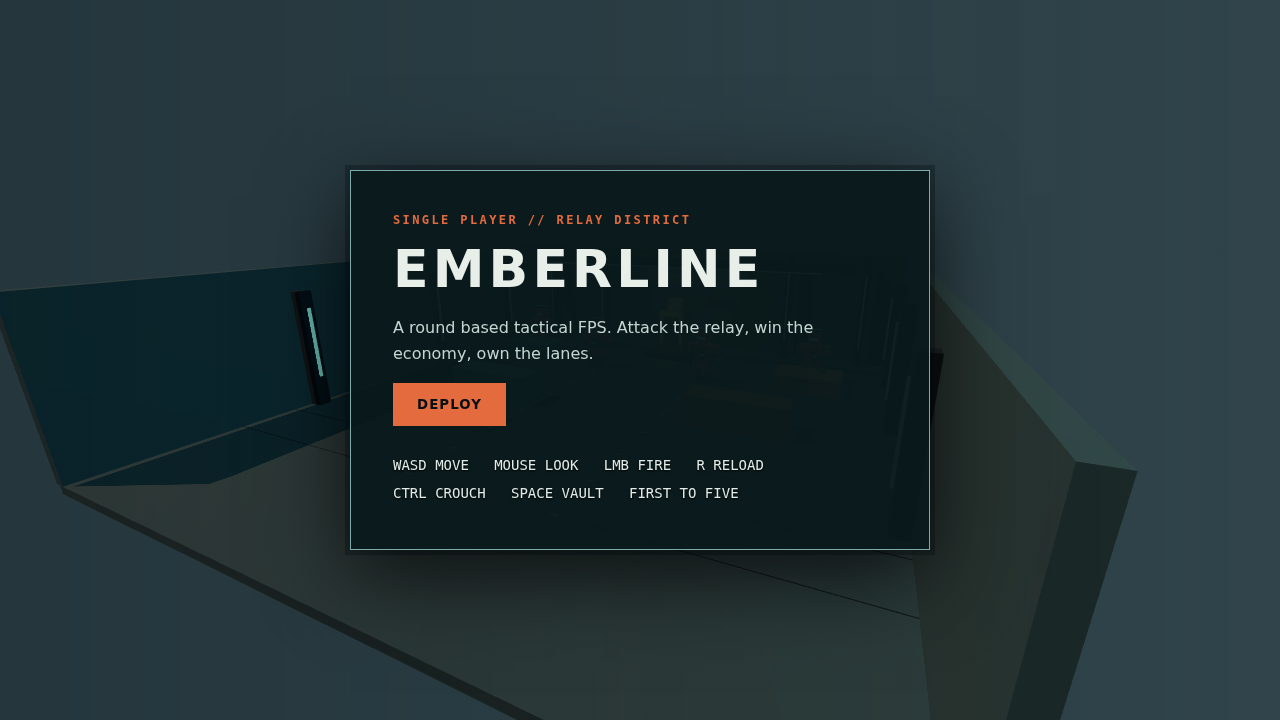
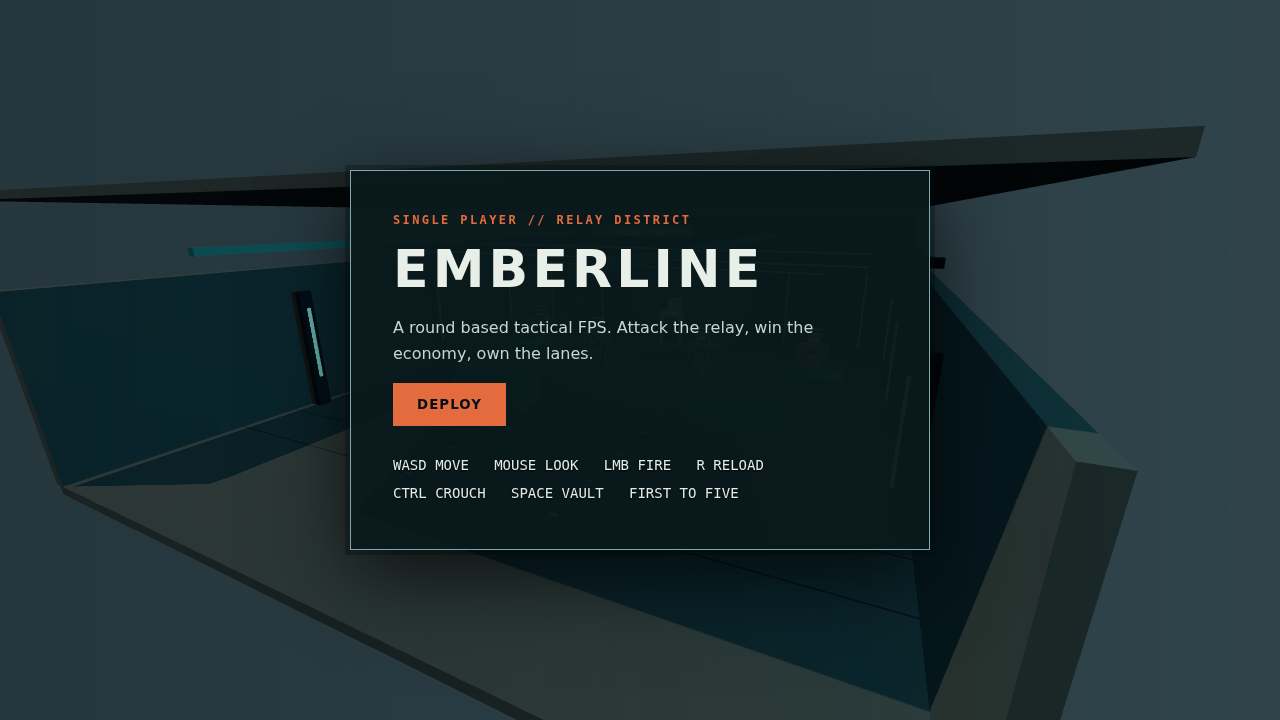
Polish EMBERLINE combat cues and final shot composition
Restore frozen-shot rendering after capture resize, clarify rivals and HUD combat cues, and reframe the weapon and arena. Refresh all four deterministic submission captures.

diff --git a/game/src/main.js b/game/src/main.js
@@ -22,19 +22,20 @@ function aim(){
   camera.position.set(10,8,18);camera.lookAt(0,1,-4);
   return;
  }
- camera.position.set(player.state.position.x,player.state.position.y+player.state.eye,player.state.position.z);camera.rotation.set(player.state.pitch,player.state.yaw,0,'YXZ');
+ camera.position.set(player.state.position.x,player.state.position.y+player.state.eye,player.state.position.z);camera.rotation.set(player.state.pitch,player.state.yaw,shot==='play'?.018:0,'YXZ');
 }
-function shoot(){if(!weapon.ready())return;weapon.fire();audio.shot();camera.getWorldDirection(ray.ray.direction);ray.set(camera.position,ray.ray.direction);const hit=ray.intersectObjects(bots.list.filter(b=>b.alive).flatMap(b=>[b.body,b.head]),false)[0];if(hit){const b=hit.object.userData.bot;b.hp-=hit.object===b.head?100:34;hud.hit();if(b.hp<=0){b.alive=false;b.group.visible=false;feed=`<b>EMBER</b> eliminated <span>RIVAL ${bots.list.indexOf(b)+1}</span>`;audio.round();if(bots.list.every(x=>!x.alive))endRound(0);}}player.recoil();}
+function killEvent(rival){return `<b>EMBER</b> <em>[vanta]</em> <span>RIVAL ${rival}</span>`;}
+function shoot(){if(!weapon.ready())return;weapon.fire();audio.shot();camera.getWorldDirection(ray.ray.direction);ray.set(camera.position,ray.ray.direction);const hit=ray.intersectObjects(bots.list.filter(b=>b.alive).flatMap(b=>[b.body,b.head]),false)[0];if(hit){const b=hit.object.userData.bot;b.hp-=hit.object===b.head?100:34;hud.hit();if(b.hp<=0){b.alive=false;b.group.visible=false;feed=killEvent(bots.list.indexOf(b)+1);audio.round();if(bots.list.every(x=>!x.alive))endRound(0);}}player.recoil();}
 function endRound(team){rounds.win(team);running=false;input.state.firing=false;hud.overlay(rounds.state.phase,'ROUND WIN',team===0?'Relay secured. Your squad owns the lane.':'The opposing squad controls the relay.');}
 function buyShop(){if(rounds.state.phase==='buy'&&rounds.buy(2700)){weapon.state.capacity=30;weapon.state.mag=30;weapon.state.reserve=90;feed='<b>SHOP</b> VANTA rifle equipped';}}
 function start(){audio.boot();running=true;manualFrame=false;rounds.start();bots.reset();weapon.reset();player.state.hp=100;player.state.position.set(0,0,8);hud.hide();input.lock();}
 hud.onPlay(()=>{if(rounds.state.phase==='win'){rounds.next();hud.overlay('buy','BUY PHASE','Spend credits before the next push. Press 1 for rifle or 2 for armor.');return;}if(rounds.state.phase==='buy')start();else start();});
 function setupShot(name){if(name==='start'){rounds.state.phase='menu';rounds.state.time=12;hud.overlay('start','EMBERLINE','A round based tactical FPS. Attack the relay, win the economy, own the lanes.');}else if(name==='buy'){rounds.state.phase='buy';rounds.state.time=12;hud.overlay('buy','BUY PHASE // RELAY DISTRICT','Spend credits, then push through the relay lanes.  [1] VANTA RIFLE $2700   [2] ARMOUR $650   [G] GRENADE $300');buyShop();}else{rounds.start();running=true;player.state.position.set(0,0,7);player.state.yaw=0;bots.list.forEach((b,i)=>{b.hp=100;b.alive=true;b.group.visible=true;b.group.position.set([-8,-3,3,8][i],0,[-7,-5,-5,-7][i]);});if(name==='play'){
- player.state.position.set(0,0,6);player.state.pitch=.018;rounds.state.time=74;weapon.state.mag=18;
+ player.state.position.set(.85,0,6);player.state.yaw=.125;player.state.pitch=-.025;rounds.state.time=74;weapon.state.mag=18;
  bots.list.forEach((b,i)=>{b.group.position.set([0,1.9,-4.4,6.8][i],0,[-1,-3.2,-5.2,-7][i]);b.group.rotation.y=0;});
  bots.list[0].hp=32;bots.list[0].health.scale.x=.32;
- feed='<b>EMBER</b> ▸ <span>RIVAL 4</span> &nbsp; / &nbsp; VANTA';bots.list[3].alive=false;bots.list[3].group.visible=false;hud.hide();document.getElementById('hit').classList.add('on');
- aim();camera.updateMatrixWorld(true);const muzzle=weapon.flash.getWorldPosition(new THREE.Vector3()),impact=new THREE.Vector3(0,1.73,-.75);
+ feed=killEvent(4);bots.list[3].alive=false;bots.list[3].group.visible=false;hud.hide();document.getElementById('hit').classList.add('on');
+ aim();camera.updateMatrixWorld(true);const muzzle=weapon.flash.getWorldPosition(new THREE.Vector3()),impact=new THREE.Vector3(0,1.48,-.75);
  const tracer=new THREE.Mesh(new THREE.CylinderGeometry(.012,.012,muzzle.distanceTo(impact),8),new THREE.MeshBasicMaterial({color:0xffdb86}));tracer.position.copy(muzzle).add(impact).multiplyScalar(.5);tracer.quaternion.setFromUnitVectors(new THREE.Vector3(0,1,0),impact.clone().sub(muzzle).normalize());scene.add(tracer);
  const sparkMaterial=new THREE.LineBasicMaterial({color:0xffedb4});for(let i=0;i<9;i++){const a=i*2.399;const end=impact.clone().add(new THREE.Vector3(Math.cos(a)*.3,Math.sin(a)*.3,.15));scene.add(new THREE.Line(new THREE.BufferGeometry().setFromPoints([impact,end]),sparkMaterial));}
 }if(name==='roundwin'){bots.list.slice(1).forEach(b=>{b.alive=false;b.group.visible=false;});feed='<b>EMBER</b> eliminated RIVAL 2  •  <b>ROUND WIN</b>';rounds.win(0);hud.overlay('win','ROUND WIN','Relay secured. Your squad owns the lane.');}}aim();hud.set({hp:player.state.hp,armor:player.state.armor,mag:weapon.state.mag,reserve:weapon.state.reserve,money:rounds.state.money,time:rounds.state.time,round:rounds.state.round,score:rounds.state.score,feed});renderOnce();}
@@ -48,5 +49,5 @@ function renderScene(){
 function renderOnce(){aim();if(shot==='play')weapon.flash.visible=true;renderScene();manualFrame=Boolean(shot);window.__shotReady=true;}
 function update(dt){if(!running)return;rounds.tick(dt);const look=input.look();player.look(look.x,look.y);const s=input.state;if(s.keys.has('KeyR'))weapon.reload();if(s.keys.has('Digit1'))buyShop();if(s.keys.has('Digit2')&&rounds.state.phase==='buy'&&rounds.buy(650))player.state.armor=100;if(s.firing)shoot();player.step(dt,s.keys);weapon.step(dt);bots.step(dt,player.state,b=>{if(random()<.25){player.state.hp=Math.max(0,player.state.hp-7);feed='<span>CONTACT</span> incoming fire';}});if(rounds.state.time<=0&&rounds.state.phase==='live')endRound(0);if(player.state.hp<=0)endRound(1);aim();hud.set({hp:player.state.hp,armor:player.state.armor,mag:weapon.state.mag,reserve:weapon.state.reserve,money:rounds.state.money,time:rounds.state.time,round:rounds.state.round,score:rounds.state.score,feed});}
 function frame(now){requestAnimationFrame(frame);if(!manualFrame){update(Math.min(.05,(now-last)/1000));last=now;renderScene();}}
-addEventListener('resize',()=>{camera.aspect=innerWidth/innerHeight;camera.updateProjectionMatrix();renderer.setSize(innerWidth,innerHeight);});
+addEventListener('resize',()=>{camera.aspect=innerWidth/innerHeight;camera.updateProjectionMatrix();renderer.setSize(innerWidth,innerHeight);if(manualFrame)renderOnce();});
 if(shot)setupShot(shot);else hud.overlay('start','EMBERLINE','A round based tactical FPS. Attack the relay, win the economy, own the lanes.');aim();frame(performance.now());

diff --git a/game/src/world.js b/game/src/world.js
@@ -2,25 +2,29 @@ import * as THREE from 'three';
 import {PALETTE} from './palette.js';
 export function createWorld(scene){
  const group=new THREE.Group();scene.add(group);const colliders=[],shootables=[];
- const M={floor:new THREE.MeshStandardMaterial({color:0x233b40,roughness:.85}),wall:new THREE.MeshStandardMaterial({color:0x28454b,roughness:.8}),teal:new THREE.MeshStandardMaterial({color:PALETTE.teal,roughness:.65}),orange:new THREE.MeshStandardMaterial({color:PALETTE.orange,roughness:.65}),gold:new THREE.MeshStandardMaterial({color:0xb39256,metalness:.5,roughness:.45}),dark:new THREE.MeshStandardMaterial({color:0x101f29,metalness:.5}),light:new THREE.MeshBasicMaterial({color:0x86eee3}),glow:new THREE.MeshBasicMaterial({color:0xffc371})};
+ const M={floor:new THREE.MeshStandardMaterial({color:0x233b40,roughness:.85}),wall:new THREE.MeshStandardMaterial({color:0x28454b,roughness:.8}),teal:new THREE.MeshStandardMaterial({color:PALETTE.teal,roughness:.65}),orange:new THREE.MeshStandardMaterial({color:PALETTE.orange,roughness:.65}),gold:new THREE.MeshStandardMaterial({color:0xb39256,metalness:.5,roughness:.45}),dark:new THREE.MeshStandardMaterial({color:0x101f29,metalness:.5}),light:new THREE.MeshBasicMaterial({color:0x86eee3}),glow:new THREE.MeshBasicMaterial({color:0x88dedb})};
  function box(w,h,d,x,y,z,m,solid=true){const o=new THREE.Mesh(new THREE.BoxGeometry(w,h,d),M[m]);o.position.set(x,y,z);o.castShadow=o.receiveShadow=true;group.add(o);if(solid)colliders.push(new THREE.Box3().setFromObject(o));shootables.push(o);return o;}
- box(24,.3,26,0,-.15,0,'floor',false);box(24,6,.4,0,3,-12,'wall');box(.4,6,26,-12,3,0,'wall');box(.4,6,26,12,3,0,'wall');
+ box(24,.3,26,0,-.15,0,'floor',false);box(24,10,.4,0,5,-12,'wall');box(.4,6,26,-12,3,0,'wall');box(.4,6,26,12,3,0,'wall');
+ // Overhead gantries give the upper frame depth and lit structure.
+ for(const z of [-10,-5,1]){box(24,.3,.45,0,6.7,z,'dark',false);box(20,.045,.08,0,6.52,z+.25,'light',false);}
+ for(const x of [-8,5])box(.28,.25,22,x,7,-1,'teal',false);
+ box(24,.2,26,0,8.5,0,'wall',false);
  // Side cover leaves an uninterrupted central engagement lane.
- box(4,1.3,1.3,-5,.65,1,'teal');box(4,1.3,1.3,6,.65,0,'orange');box(1.4,.9,1.5,-3.8,.45,4,'gold');
- box(3,.8,2,-8,.4,-6,'teal');box(3,.8,2,8,.4,-6,'orange');
+ box(4,1.3,1.3,-5,.65,1,'teal');box(4,1.3,1.3,6,.65,0,'teal');box(1.4,.9,1.5,-3.8,.45,4,'gold');
+ box(3,.8,2,-8,.4,-6,'teal');box(3,.8,2,8,.4,-6,'teal');
  for(const x of [-10,-6,6,10]){box(.45,6,.8,x,3,-11.6,'dark');box(.08,4,.06,x,3,-11.12,'light',false);}
  for(const x of [-11.6,11.6])for(const z of [-8,-2,5]){box(.7,5,.5,x,2.5,z,'dark');box(.08,3,.12,x+(x<0?.4:-.4),2.8,z,'light',false);}
  box(19,.45,.7,0,5.6,-8,'dark');box(16,.055,.1,0,5.32,-7.7,'light',false);
- for(const x of [-2.8,2.8]){box(.045,.015,20,x,.015,-1,'gold',false);for(let z=-10;z<10;z+=2)box(.3,.016,.07,x,.02,z,'light',false);}
+ for(const x of [-2.8,2.8]){box(.045,.015,20,x,.015,-1,'teal',false);for(let z=-10;z<10;z+=2)box(.3,.016,.07,x,.02,z,'light',false);}
  for(let z=-10;z<10;z+=2)box(24,.012,.025,0,.01,z,'dark',false);
  // Relay tower, elevated and warm against the cool industrial shell.
  box(3,.3,2.5,0,.15,-9,'dark');box(1.5,2.4,1.3,0,1.5,-9,'gold');box(.8,1.5,1.42,0,1.7,-9,'dark');
  for(const x of [-.57,.57])box(.1,1.8,1.45,x,1.7,-9,'glow',false);
- box(.65,.65,.65,0,3.1,-9,'glow',false);box(3.8,.15,.2,0,4.3,-11.3,'gold',false);
- const canvas=document.createElement('canvas');canvas.width=1024;canvas.height=256;const ctx=canvas.getContext('2d');ctx.fillStyle='#10232c';ctx.fillRect(0,0,1024,256);ctx.fillStyle='#a6c9c7';ctx.font='bold 92px monospace';ctx.textAlign='center';ctx.fillText('RELAY / 07',512,110);ctx.fillStyle='#f3bd70';ctx.font='32px monospace';ctx.fillText('EMBERLINE  •  TRANSIT SECTOR',512,185);const sign=new THREE.Mesh(new THREE.PlaneGeometry(7,1.75),new THREE.MeshBasicMaterial({map:new THREE.CanvasTexture(canvas)}));sign.position.set(0,4.7,-11.75);group.add(sign);
+ box(.65,.65,.65,0,3.1,-9,'glow',false);box(3.8,.10,.2,-3.5,6,-11.3,'light',false);
+ const canvas=document.createElement('canvas');canvas.width=1024;canvas.height=256;const ctx=canvas.getContext('2d');ctx.fillStyle='#10232c';ctx.fillRect(0,0,1024,256);ctx.fillStyle='#a6c9c7';ctx.font='bold 92px monospace';ctx.textAlign='center';ctx.fillText('RELAY / 07',512,110);ctx.fillStyle='#64c9cc';ctx.font='32px monospace';ctx.fillText('EMBERLINE  •  TRANSIT SECTOR',512,185);const sign=new THREE.Mesh(new THREE.PlaneGeometry(7,1.75),new THREE.MeshBasicMaterial({map:new THREE.CanvasTexture(canvas)}));sign.position.set(-3.5,6.6,-11.75);group.add(sign);
  const hemi=new THREE.HemisphereLight(0x9cdce9,0x283439,1.4);hemi.layers.enable(1);scene.add(hemi);
  const sun=new THREE.DirectionalLight(0xffd6aa,3.4);sun.layers.enable(1);sun.position.set(-8,12,4);sun.castShadow=true;sun.shadow.mapSize.set(2048,2048);Object.assign(sun.shadow.camera,{left:-18,right:18,top:18,bottom:-18});sun.shadow.bias=-.001;scene.add(sun);
  const fill=new THREE.DirectionalLight(0x64d8e9,1.2);fill.position.set(8,5,-6);fill.layers.enable(1);scene.add(fill);
- const relayLight=new THREE.PointLight(0xff9a3e,35,9,2);relayLight.position.set(0,3,-8);scene.add(relayLight);
+ const relayLight=new THREE.PointLight(0x72dedb,35,9,2);relayLight.position.set(0,3,-8);scene.add(relayLight);
  return{colliders,shootables,group};
 }

diff --git a/game/src/weapon.js b/game/src/weapon.js
@@ -8,10 +8,10 @@ export function createWeapon(camera){
  part(.15,.15,.22,-.09,-.12,-.24,glove);part(.12,.18,.12,.04,-.18,.11,glove);part(.15,.07,.16,.02,-.29,.15,warm);
  for(let z=-.27;z<0;z+=.065)part(.19,.025,.025,0,.145,z,steel);
  // The cone base meets the barrel tip; its point faces forward.
- const flash=new THREE.Mesh(new THREE.ConeGeometry(.11,.32,8),new THREE.MeshBasicMaterial({color:0xffd77c}));flash.rotation.x=-Math.PI/2;flash.position.set(0,.025,-.765);g.add(flash);flash.visible=false;
- g.scale.setScalar(.62);g.position.set(.38,-.3,-.65);camera.add(g);
+ const flash=new THREE.Mesh(new THREE.ConeGeometry(.11,.32,8),new THREE.MeshBasicMaterial({color:0xffd77c}));flash.rotation.x=-Math.PI/2;flash.position.set(0,.025,-.765);g.add(flash);const core=new THREE.Mesh(new THREE.ConeGeometry(.055,.38,8),new THREE.MeshBasicMaterial({color:0xfff8de}));core.position.y=.025;flash.add(core);flash.visible=false;
+ g.scale.setScalar(.82);g.position.set(.47,-.34,-1.05);camera.add(g);
  // Render the view model after clearing world depth, so nearby cover cannot cut it up.
  g.traverse(o=>o.layers.set(1));
  const s={mag:25,reserve:75,cool:0,reload:0,kick:0,spread:0,capacity:25};
- return {state:s,flash,step(dt){s.cool=Math.max(0,s.cool-dt);if(s.reload>0){s.reload=Math.max(0,s.reload-dt);if(!s.reload){const n=Math.min(s.capacity-s.mag,s.reserve);s.mag+=n;s.reserve-=n;}}s.kick=Math.max(0,s.kick-dt*.3);s.spread=Math.max(0,s.spread-dt*.025);g.position.z=-.65+s.kick;g.rotation.x=-s.kick;flash.visible=s.cool>.08;},ready(){return s.cool===0&&s.reload===0&&s.mag>0;},fire(){s.mag--;s.cool=.14;s.kick=.065;s.spread=Math.min(.035,s.spread+.006);flash.visible=true;},reload(){if(s.mag<s.capacity&&s.reserve&&s.reload===0){s.reload=1.7;return true;}return false;},reset(){s.mag=s.capacity;s.reserve=s.capacity*3;s.cool=s.reload=s.spread=0;}};
+ return {state:s,flash,step(dt){s.cool=Math.max(0,s.cool-dt);if(s.reload>0){s.reload=Math.max(0,s.reload-dt);if(!s.reload){const n=Math.min(s.capacity-s.mag,s.reserve);s.mag+=n;s.reserve-=n;}}s.kick=Math.max(0,s.kick-dt*.3);s.spread=Math.max(0,s.spread-dt*.025);g.position.z=-1.05+s.kick;g.rotation.x=-s.kick;flash.visible=s.cool>.08;},ready(){return s.cool===0&&s.reload===0&&s.mag>0;},fire(){s.mag--;s.cool=.14;s.kick=.065;s.spread=Math.min(.035,s.spread+.006);flash.visible=true;},reload(){if(s.mag<s.capacity&&s.reserve&&s.reload===0){s.reload=1.7;return true;}return false;},reset(){s.mag=s.capacity;s.reserve=s.capacity*3;s.cool=s.reload=s.spread=0;}};
 }

diff --git a/game/index.html b/game/index.html
@@ -12,4 +12,12 @@
 .panel{background:#09191bf5;border:1px solid #7daba8;box-shadow:0 24px 80px #000b,0 0 0 5px #07101655}
 .panel p{color:#c4d6d1}
 .keys{color:#e1ebe7;text-shadow:0 1px 2px #000}
+/* Combat cues stay legible over both the arena and the view model. */
+.cross{z-index:2;width:38px;height:38px;filter:drop-shadow(0 1px 2px #000)}
+.cross i{background:#d6ffff;box-shadow:0 0 0 1px #071016}
+.cross i:nth-child(1),.cross i:nth-child(2){left:18px;width:2px;height:11px}
+.cross i:nth-child(3),.cross i:nth-child(4){top:18px;height:2px;width:11px}
+#hit{width:14px;height:14px;border-width:2px}
+.feed:not(:empty){padding:10px 14px;background:#071016ed;border-left:3px solid var(--teal);font:bold 14px monospace;letter-spacing:.04em}
+.feed b{color:#e8eee8}.feed em{font-style:normal;color:#a7c4c7;margin:0 10px}.feed span{color:#8ae9ed}
 </style></head><body><div id="game"></div><div id="hud"><div class="top"><span id="round">ROUND 1 · FIRST TO FIVE</span><b id="score">0 — 0</b><span id="timer">TIME 12</span></div><div class="feed" id="feed"></div><div class="cross"><i></i><i></i><i></i><i></i></div><div id="hit"></div><div class="bottom"><div class="health"><b id="hp">100</b> <i>HP</i> <span id="armor">75</span> ARM<br><span id="money">$3,200</span></div><div class="ammo"><span id="mag">25</span><small> / <span id="reserve">75</span><br>VANTA RIFLE</small></div></div></div><div class="overlay" id="overlay"><section class="panel"><div class="eyebrow">SINGLE PLAYER // RELAY DISTRICT</div><h1 id="overlay-title">EMBERLINE</h1><p id="overlay-copy">A round based tactical FPS. Attack the relay, win the economy, own the lanes.</p><button id="play">DEPLOY</button><div class="keys">WASD MOVE &nbsp; MOUSE LOOK &nbsp; LMB FIRE &nbsp; R RELOAD<br>CTRL CROUCH &nbsp; SPACE VAULT &nbsp; FIRST TO FIVE</div></section></div><script type="importmap">{"imports":{"three":"./vendor/three/three.module.min.js"}}</script><script type="module" src="./src/main.js"></script></body></html>

diff --git a/game/src/bots.js b/game/src/bots.js
@@ -1,9 +1,9 @@
 import * as THREE from 'three';
 export function createBots(scene,nav,shootables,random){
- const list=[],armor=new THREE.MeshStandardMaterial({color:0xe84058,emissive:0x6e102c,emissiveIntensity:.35,metalness:.35,roughness:.45}),dark=new THREE.MeshStandardMaterial({color:0x162439}),rimMat=new THREE.MeshBasicMaterial({color:0xffb8cc,side:THREE.BackSide}),visor=new THREE.MeshBasicMaterial({color:0x9dffff});
+ const list=[],armor=new THREE.MeshStandardMaterial({color:0xcf5870,emissive:0x702b45,emissiveIntensity:.65,metalness:.35,roughness:.45}),dark=new THREE.MeshStandardMaterial({color:0x344155}),rimMat=new THREE.MeshBasicMaterial({color:0x80f4ff,side:THREE.BackSide}),visor=new THREE.MeshBasicMaterial({color:0x9dffff});
  for(let i=0;i<4;i++){
   const g=new THREE.Group();
-  function part(w,h,d,x,y,z,m=armor,rim=false){const mesh=new THREE.Mesh(new THREE.BoxGeometry(w,h,d),m);mesh.position.set(x,y,z);mesh.castShadow=true;g.add(mesh);if(rim){const edge=new THREE.Mesh(mesh.geometry,rimMat);edge.position.copy(mesh.position);edge.scale.set(1.06,1.04,1.08);g.add(edge);}return mesh;}
+  function part(w,h,d,x,y,z,m=armor,rim=true){const mesh=new THREE.Mesh(new THREE.BoxGeometry(w,h,d),m);mesh.position.set(x,y,z);mesh.castShadow=true;g.add(mesh);if(rim){const edge=new THREE.Mesh(mesh.geometry,rimMat);edge.position.copy(mesh.position);edge.scale.set(1.10,1.065,1.12);g.add(edge);}return mesh;}
   const body=part(.64,.78,.38,0,1.2,0,armor,true),head=part(.4,.4,.38,0,1.85,0,armor,true);
   part(.32,.11,.02,0,1.88,.2,visor);part(.4,.16,.04,0,1.35,.21,dark);
   for(const side of [-1,1]){part(.24,.7,.28,side*.2,.47,0,dark);part(.25,.25,.31,side*.2,.67,.035,armor,true);part(.29,.16,.48,side*.2,.1,.09,dark);part(.25,.35,.34,side*.46,1.43,0,armor,true);part(.19,.4,.25,side*.42,1.1,.17,dark);}
